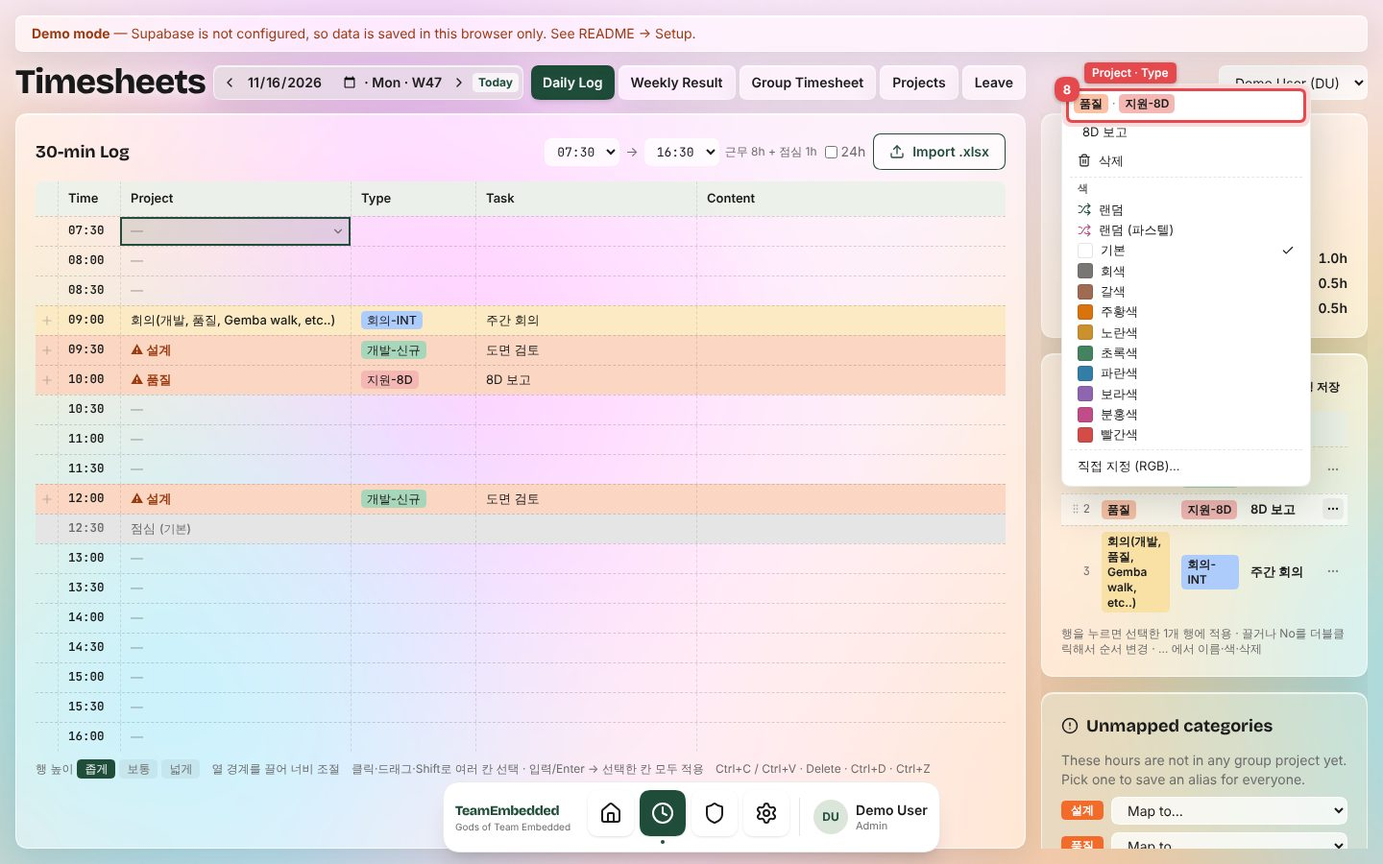
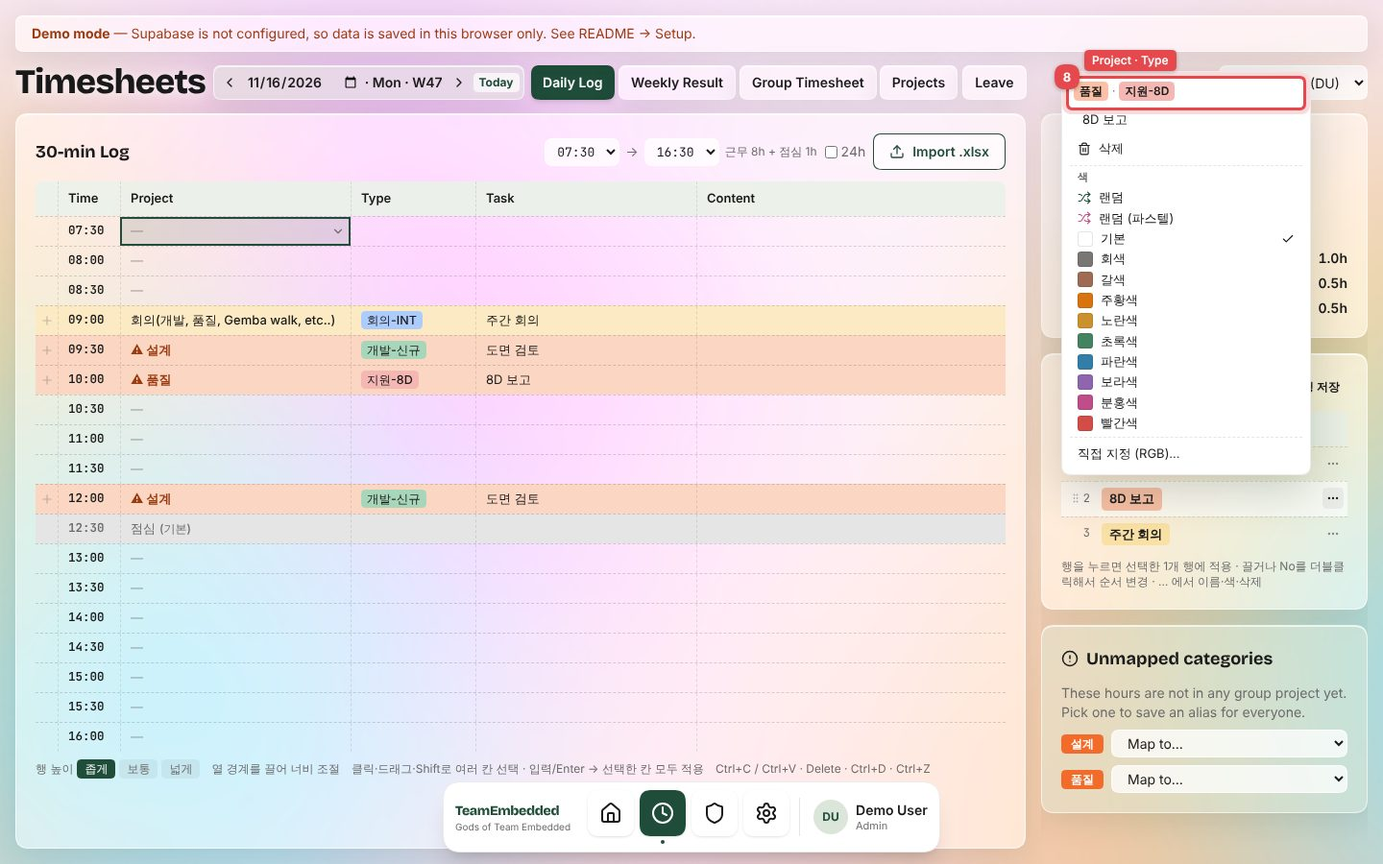
Verification report: repeated-task table with No and Task (commit 38149d5)
Claude-Session: https://claude.ai/code/session_01A1L3RATWraiPWfjj96SejH

diff --git a/docs/test-reports/2026-11-26-templates-table/index.html b/docs/test-reports/2026-11-26-templates-table/index.html
@@ -49,10 +49,10 @@ a { color: var(--accent) } a:focus-visible, summary:focus-visible { outline: 2px
 @media (max-width: 640px) { dl { grid-template-columns: 1fr } h1 { font-size: 1.5rem } }
 </style></head><body><div class="wrap">
 <header class="head"><a href="../index.html" class="eyebrow">← 검증 보고서 목록</a><p class="eyebrow">검증 보고서 · E2E</p><h1>반복 업무 표 · 칸 이름 Project/Type/Task · + 칸 줄</h1>
-<div class="meta"><span>날짜 2026-11-26</span><span>커밋 <code>4b9cac1</code></span><span>스위트 <code>tests/e2e/batchN.e2e.cjs</code></span><span>Chromium 157.0.8103.78 · 1440×900</span><span>데모 모드(가상 데이터)</span></div></header>
+<div class="meta"><span>날짜 2026-11-26</span><span>커밋 <code>38149d5</code></span><span>스위트 <code>tests/e2e/batchN.e2e.cjs</code></span><span>Chromium 157.0.8103.78 · 1440×900</span><span>데모 모드(가상 데이터)</span></div></header>
 <section class="summary" aria-label="결과 요약"><span class="pill pass">PASS</span><strong>13 / 13</strong><span>테스트 케이스 통과 · 증적 화면 7장</span></section>
-<section class="req"><div class="box"><h2>요청</h2><p>칸 이름을 Project / Type / Task로(한국어 프로젝트 / 유형 / 업무). 행 앞 + 옆에 세로 줄. 반복 업무 … 메뉴 맨 위에 Project · Type. 반복 업무를 표로, 오른쪽 도킹 창에, 번호는 1부터, 끌기와 No 더블클릭으로 순서 변경.</p></div><div class="box"><h2>인수 기준</h2><ol><li>표 머리글이 Time · Project · Type · Task · Content(한국어: 시간 · 프로젝트 · 유형 · 업무 · 업무내용).</li><li>+ 칸 오른쪽에 다른 칸 사이와 같은 세로 줄이 머리글부터 모든 행에 있다.</li><li>반복 업무는 No · Project · Type · Task 표로 보이고 No는 1부터.</li><li>행을 누르면 고른 칸에 그 반복 업무가 들어간다.</li><li>행을 끌거나 No를 더블클릭해 번호를 입력하면 그 자리로 옮겨지고, 새로 고쳐도 유지된다.</li><li>… 메뉴 맨 윗줄에 그 반복 업무의 Project · Type이 보인다.</li><li>반복 업무 창은 Today처럼 떼어 낼 수 있고 오른쪽에 다시 붙는다.</li></ol></div></section>
-<section style="display:grid;gap:12px"><h2>테스트 케이스</h2><div class="tablewrap"><table><thead><tr><th>#</th><th>테스트 케이스</th><th>기대 결과</th><th>실제 결과</th><th>판정 근거 (Assertion)</th><th>결과</th><th>증적</th></tr></thead><tbody><tr class=""><td class="n"><a href="#shot-1" title="증적 보기">1</a></td><td>머리글: Project · Type · Task</td><td>Time|Project|Type|Task|Content</td><td>Time|Project|Type|Task|Content</td><td><code>머리글 텍스트 === 'Time|Project|Type|Task|Content'</code></td><td><span class="pill pass">PASS</span></td><td><a href="#shot-1">화면 1</a></td></tr><tr class=""><td class="n"><a href="#shot-1" title="증적 보기">2</a></td><td>+ 칸 오른쪽 세로 줄(머리글과 모든 행)</td><td>19곳 모두 다른 칸 사이 줄과 같음 (1px dashed)</td><td>19곳 모두 '1px dashed'</td><td><code>머리글·각 행의 + 칸 border-right === 다른 칸 border-left</code></td><td><span class="pill pass">PASS</span></td><td><a href="#shot-1">화면 1</a></td></tr><tr class=""><td class="n"><a href="#shot-2" title="증적 보기">3</a></td><td>반복 업무가 No · Project · Type · Task 표로, No는 1부터</td><td>머리글 No|Project|Type|Task, 1번 행 '1 · 회의… · 회의-INT · 주간 회의'(회의는 데모의 회의 프로젝트로 연결), No 1,2,3</td><td>머리글 No|Project|Type|Task, 1번 행 '1 · 회의(개발, 품질, Gemba walk, etc..) · 회의-INT · 주간 회의', No 1,2,3</td><td><code>thead === 'No|Project|Type|Task' &amp;&amp; row1 = ['1','회의…','회의-INT','주간 회의'] &amp;&amp; No === 1,2,3</code></td><td><span class="pill pass">PASS</span></td><td><a href="#shot-2">화면 2</a></td></tr><tr class=""><td class="n"><a href="#shot-3" title="증적 보기">4</a></td><td>행을 누르면 고른 칸에 적용</td><td>12:00 행 '설계 · 개발-신규 · 도면 검토'</td><td>'설계 · 개발-신규 · 도면 검토'</td><td><code>12:00 행 Project·Type·Task === 2번 반복 업무</code></td><td><span class="pill pass">PASS</span></td><td><a href="#shot-3">화면 3</a></td></tr><tr class=""><td class="n"><a href="#shot-4" title="증적 보기">5</a></td><td>행을 끌어 맨 위로</td><td>8D 보고 · 주간 회의 · 도면 검토</td><td>8D 보고 · 주간 회의 · 도면 검토</td><td><code>Task 순서 === ['8D 보고','주간 회의','도면 검토']</code></td><td><span class="pill pass">PASS</span></td><td><a href="#shot-4">화면 4</a></td></tr><tr class=""><td class="n"><a href="#shot-4" title="증적 보기">6</a></td><td>No를 더블클릭해 1을 입력하면 1번으로</td><td>도면 검토 · 8D 보고 · 주간 회의</td><td>도면 검토 · 8D 보고 · 주간 회의</td><td><code>Task 순서 === ['도면 검토','8D 보고','주간 회의']</code></td><td><span class="pill pass">PASS</span></td><td><a href="#shot-4">화면 4</a></td></tr><tr class=""><td class="n">7</td><td>새로 고쳐도 순서 유지</td><td>도면 검토 · 8D 보고 · 주간 회의</td><td>도면 검토 · 8D 보고 · 주간 회의</td><td><code>새로 고친 뒤 Task 순서가 같음</code></td><td><span class="pill pass">PASS</span></td><td>—</td></tr><tr class=""><td class="n"><a href="#shot-5" title="증적 보기">8</a></td><td>… 메뉴 맨 위에 Project · Type</td><td>'품질 · 지원-8D', 그 아래 이름 '8D 보고'</td><td>'품질 · 지원-8D', 이름 '8D 보고'</td><td><code>option-context === '품질 · 지원-8D' &amp;&amp; 이름 칸 === '8D 보고'</code></td><td><span class="pill pass">PASS</span></td><td><a href="#shot-5">화면 5</a></td></tr><tr class=""><td class="n"><a href="#shot-6" title="증적 보기">9</a></td><td>반복 업무 창을 떼어 내면 떠서 표를 보여 줌</td><td>처음 'true' → 'false', 표 3행</td><td>'true' → 'false', 표 3행</td><td><code>docked 'true' → 'false' &amp;&amp; 행 수 === 3</code></td><td><span class="pill pass">PASS</span></td><td><a href="#shot-6">화면 6</a></td></tr><tr class=""><td class="n">10</td><td>오른쪽 끝에 놓으면 다시 붙음</td><td>data-docked = 'true'</td><td>'true'</td><td><code>panel.dataset.docked === 'true'</code></td><td><span class="pill pass">PASS</span></td><td>—</td></tr><tr class=""><td class="n"><a href="#shot-7" title="증적 보기">11</a></td><td>한국어 이름: 프로젝트 · 유형 · 업무</td><td>머리글 시간|프로젝트|유형|업무|업무내용, 반복 업무 No|프로젝트|유형|업무</td><td>머리글 시간|프로젝트|유형|업무|업무내용, 반복 업무 No|프로젝트|유형|업무</td><td><code>두 머리글 텍스트가 기대와 같음</code></td><td><span class="pill pass">PASS</span></td><td><a href="#shot-7">화면 7</a></td></tr><tr class=""><td class="n">12</td><td>휴대폰에는 반복 업무 창 없음(입력 창에서 고름)</td><td>창 안 보임</td><td>안 보임</td><td><code>!templates-panel.isVisible()</code></td><td><span class="pill pass">PASS</span></td><td>—</td></tr><tr class=""><td class="n">13</td><td>페이지 오류 없음</td><td>0건</td><td>0건</td><td><code>pageerror 수 === 0</code></td><td><span class="pill pass">PASS</span></td><td>—</td></tr></tbody></table></div></section>
-<section class="shots"><h2>증적 (주석 스크린샷)</h2><p style="margin:0;color:var(--muted)">빨간 테두리와 번호는 표의 테스트 케이스 번호입니다. 그 요소를 확인해 판정했습니다.</p><figure id="shot-1"><img src="shot-01.jpg" alt="새 칸 이름, + 칸 줄, 반복 업무 표" loading="lazy" width="1440" height="900"><figcaption><strong>화면 1. 새 칸 이름, + 칸 줄, 반복 업무 표</strong><div class="marks"><span><span class="badge">1</span>머리글: Project · Type · Task</span><span><span class="badge">2</span>+ 칸 오른쪽 세로 줄(머리글과 모든 행)</span></div></figcaption></figure><figure id="shot-2"><img src="shot-02.jpg" alt="반복 업무 표(오른쪽 도킹 창)" loading="lazy" width="1440" height="900"><figcaption><strong>화면 2. 반복 업무 표(오른쪽 도킹 창)</strong><div class="marks"><span><span class="badge">3</span>반복 업무가 No · Project · Type · Task 표로, No는 1부터</span></div></figcaption></figure><figure id="shot-3"><img src="shot-03.jpg" alt="2번 반복 업무를 12:00 행에 적용" loading="lazy" width="1440" height="900"><figcaption><strong>화면 3. 2번 반복 업무를 12:00 행에 적용</strong><div class="marks"><span><span class="badge">4</span>행을 누르면 고른 칸에 적용</span><span><span class="badge">4</span>행을 누르면 고른 칸에 적용</span></div></figcaption></figure><figure id="shot-4"><img src="shot-04.jpg" alt="순서를 바꾼 뒤(새로 고침 후)" loading="lazy" width="1440" height="900"><figcaption><strong>화면 4. 순서를 바꾼 뒤(새로 고침 후)</strong><div class="marks"><span><span class="badge">6</span>No를 더블클릭해 1을 입력하면 1번으로</span><span><span class="badge">5</span>행을 끌어 맨 위로</span></div></figcaption></figure><figure id="shot-5"><img src="shot-05.jpg" alt="반복 업무 … 메뉴" loading="lazy" width="1440" height="900"><figcaption><strong>화면 5. 반복 업무 … 메뉴</strong><div class="marks"><span><span class="badge">8</span>… 메뉴 맨 위에 Project · Type</span></div></figcaption></figure><figure id="shot-6"><img src="shot-06.jpg" alt="떼어 낸 반복 업무 창" loading="lazy" width="1440" height="900"><figcaption><strong>화면 6. 떼어 낸 반복 업무 창</strong><div class="marks"><span><span class="badge">9</span>반복 업무 창을 떼어 내면 떠서 표를 보여 줌</span></div></figcaption></figure><figure id="shot-7"><img src="shot-07.jpg" alt="한국어 화면" loading="lazy" width="1440" height="900"><figcaption><strong>화면 7. 한국어 화면</strong><div class="marks"><span><span class="badge">11</span>한국어 이름: 프로젝트 · 유형 · 업무</span><span><span class="badge">11</span>한국어 이름: 프로젝트 · 유형 · 업무</span></div></figcaption></figure></section>
+<section class="req"><div class="box"><h2>요청</h2><p>칸 이름을 Project / Type / Task로(한국어 프로젝트 / 유형 / 업무). 행 앞 + 옆에 세로 줄. 반복 업무 … 메뉴 맨 위에 Project · Type. 반복 업무를 표로, 오른쪽 도킹 창에, 번호는 1부터, 끌기와 No 더블클릭으로 순서 변경. (추가 요청) 표에는 No와 Task만, Project · Type은 … 메뉴에서만.</p></div><div class="box"><h2>인수 기준</h2><ol><li>표 머리글이 Time · Project · Type · Task · Content(한국어: 시간 · 프로젝트 · 유형 · 업무 · 업무내용).</li><li>+ 칸 오른쪽에 다른 칸 사이와 같은 세로 줄이 머리글부터 모든 행에 있다.</li><li>반복 업무는 No · Task 두 칸 표로 간단히 보이고(Project · Type은 … 메뉴에서) No는 1부터.</li><li>행을 누르면 고른 칸에 그 반복 업무가 들어간다.</li><li>행을 끌거나 No를 더블클릭해 번호를 입력하면 그 자리로 옮겨지고, 새로 고쳐도 유지된다.</li><li>… 메뉴 맨 윗줄에 그 반복 업무의 Project · Type이 보인다.</li><li>반복 업무 창은 Today처럼 떼어 낼 수 있고 오른쪽에 다시 붙는다.</li></ol></div></section>
+<section style="display:grid;gap:12px"><h2>테스트 케이스</h2><div class="tablewrap"><table><thead><tr><th>#</th><th>테스트 케이스</th><th>기대 결과</th><th>실제 결과</th><th>판정 근거 (Assertion)</th><th>결과</th><th>증적</th></tr></thead><tbody><tr class=""><td class="n"><a href="#shot-1" title="증적 보기">1</a></td><td>머리글: Project · Type · Task</td><td>Time|Project|Type|Task|Content</td><td>Time|Project|Type|Task|Content</td><td><code>머리글 텍스트 === 'Time|Project|Type|Task|Content'</code></td><td><span class="pill pass">PASS</span></td><td><a href="#shot-1">화면 1</a></td></tr><tr class=""><td class="n"><a href="#shot-1" title="증적 보기">2</a></td><td>+ 칸 오른쪽 세로 줄(머리글과 모든 행)</td><td>19곳 모두 다른 칸 사이 줄과 같음 (1px dashed)</td><td>19곳 모두 '1px dashed'</td><td><code>머리글·각 행의 + 칸 border-right === 다른 칸 border-left</code></td><td><span class="pill pass">PASS</span></td><td><a href="#shot-1">화면 1</a></td></tr><tr class=""><td class="n"><a href="#shot-2" title="증적 보기">3</a></td><td>반복 업무가 No · Task 두 칸 표로, No는 1부터</td><td>머리글 No|Task, 1번 행 '1 · 주간 회의', No 1,2,3</td><td>머리글 No|Task, 1번 행 '1 · 주간 회의', No 1,2,3</td><td><code>thead === 'No|Task' &amp;&amp; row1 = ['1','주간 회의'] &amp;&amp; No === 1,2,3</code></td><td><span class="pill pass">PASS</span></td><td><a href="#shot-2">화면 2</a></td></tr><tr class=""><td class="n"><a href="#shot-3" title="증적 보기">4</a></td><td>행을 누르면 고른 칸에 적용</td><td>12:00 행 '설계 · 개발-신규 · 도면 검토'</td><td>'설계 · 개발-신규 · 도면 검토'</td><td><code>12:00 행 Project·Type·Task === 2번 반복 업무</code></td><td><span class="pill pass">PASS</span></td><td><a href="#shot-3">화면 3</a></td></tr><tr class=""><td class="n"><a href="#shot-4" title="증적 보기">5</a></td><td>행을 끌어 맨 위로</td><td>8D 보고 · 주간 회의 · 도면 검토</td><td>8D 보고 · 주간 회의 · 도면 검토</td><td><code>Task 순서 === ['8D 보고','주간 회의','도면 검토']</code></td><td><span class="pill pass">PASS</span></td><td><a href="#shot-4">화면 4</a></td></tr><tr class=""><td class="n"><a href="#shot-4" title="증적 보기">6</a></td><td>No를 더블클릭해 1을 입력하면 1번으로</td><td>도면 검토 · 8D 보고 · 주간 회의</td><td>도면 검토 · 8D 보고 · 주간 회의</td><td><code>Task 순서 === ['도면 검토','8D 보고','주간 회의']</code></td><td><span class="pill pass">PASS</span></td><td><a href="#shot-4">화면 4</a></td></tr><tr class=""><td class="n">7</td><td>새로 고쳐도 순서 유지</td><td>도면 검토 · 8D 보고 · 주간 회의</td><td>도면 검토 · 8D 보고 · 주간 회의</td><td><code>새로 고친 뒤 Task 순서가 같음</code></td><td><span class="pill pass">PASS</span></td><td>—</td></tr><tr class=""><td class="n"><a href="#shot-5" title="증적 보기">8</a></td><td>… 메뉴 맨 위에 Project · Type</td><td>'품질 · 지원-8D', 그 아래 이름 '8D 보고'</td><td>'품질 · 지원-8D', 이름 '8D 보고'</td><td><code>option-context === '품질 · 지원-8D' &amp;&amp; 이름 칸 === '8D 보고'</code></td><td><span class="pill pass">PASS</span></td><td><a href="#shot-5">화면 5</a></td></tr><tr class=""><td class="n"><a href="#shot-6" title="증적 보기">9</a></td><td>반복 업무 창을 떼어 내면 떠서 표를 보여 줌</td><td>처음 'true' → 'false', 표 3행</td><td>'true' → 'false', 표 3행</td><td><code>docked 'true' → 'false' &amp;&amp; 행 수 === 3</code></td><td><span class="pill pass">PASS</span></td><td><a href="#shot-6">화면 6</a></td></tr><tr class=""><td class="n">10</td><td>오른쪽 끝에 놓으면 다시 붙음</td><td>data-docked = 'true'</td><td>'true'</td><td><code>panel.dataset.docked === 'true'</code></td><td><span class="pill pass">PASS</span></td><td>—</td></tr><tr class=""><td class="n"><a href="#shot-7" title="증적 보기">11</a></td><td>한국어 이름: 프로젝트 · 유형 · 업무</td><td>머리글 시간|프로젝트|유형|업무|업무내용, 반복 업무 No|업무</td><td>머리글 시간|프로젝트|유형|업무|업무내용, 반복 업무 No|업무</td><td><code>두 머리글 텍스트가 기대와 같음</code></td><td><span class="pill pass">PASS</span></td><td><a href="#shot-7">화면 7</a></td></tr><tr class=""><td class="n">12</td><td>휴대폰에는 반복 업무 창 없음(입력 창에서 고름)</td><td>창 안 보임</td><td>안 보임</td><td><code>!templates-panel.isVisible()</code></td><td><span class="pill pass">PASS</span></td><td>—</td></tr><tr class=""><td class="n">13</td><td>페이지 오류 없음</td><td>0건</td><td>0건</td><td><code>pageerror 수 === 0</code></td><td><span class="pill pass">PASS</span></td><td>—</td></tr></tbody></table></div></section>
+<section class="shots"><h2>증적 (주석 스크린샷)</h2><p style="margin:0;color:var(--muted)">빨간 테두리와 번호는 표의 테스트 케이스 번호입니다. 그 요소를 확인해 판정했습니다.</p><figure id="shot-1"><img src="shot-01.jpg" alt="새 칸 이름, + 칸 줄, 반복 업무 표" loading="lazy" width="1440" height="900"><figcaption><strong>화면 1. 새 칸 이름, + 칸 줄, 반복 업무 표</strong><div class="marks"><span><span class="badge">1</span>머리글: Project · Type · Task</span><span><span class="badge">2</span>+ 칸 오른쪽 세로 줄(머리글과 모든 행)</span></div></figcaption></figure><figure id="shot-2"><img src="shot-02.jpg" alt="반복 업무 표(오른쪽 도킹 창)" loading="lazy" width="1440" height="900"><figcaption><strong>화면 2. 반복 업무 표(오른쪽 도킹 창)</strong><div class="marks"><span><span class="badge">3</span>반복 업무가 No · Task 두 칸 표로, No는 1부터</span></div></figcaption></figure><figure id="shot-3"><img src="shot-03.jpg" alt="2번 반복 업무를 12:00 행에 적용" loading="lazy" width="1440" height="900"><figcaption><strong>화면 3. 2번 반복 업무를 12:00 행에 적용</strong><div class="marks"><span><span class="badge">4</span>행을 누르면 고른 칸에 적용</span><span><span class="badge">4</span>행을 누르면 고른 칸에 적용</span></div></figcaption></figure><figure id="shot-4"><img src="shot-04.jpg" alt="순서를 바꾼 뒤(새로 고침 후)" loading="lazy" width="1440" height="900"><figcaption><strong>화면 4. 순서를 바꾼 뒤(새로 고침 후)</strong><div class="marks"><span><span class="badge">6</span>No를 더블클릭해 1을 입력하면 1번으로</span><span><span class="badge">5</span>행을 끌어 맨 위로</span></div></figcaption></figure><figure id="shot-5"><img src="shot-05.jpg" alt="반복 업무 … 메뉴" loading="lazy" width="1440" height="900"><figcaption><strong>화면 5. 반복 업무 … 메뉴</strong><div class="marks"><span><span class="badge">8</span>… 메뉴 맨 위에 Project · Type</span></div></figcaption></figure><figure id="shot-6"><img src="shot-06.jpg" alt="떼어 낸 반복 업무 창" loading="lazy" width="1440" height="900"><figcaption><strong>화면 6. 떼어 낸 반복 업무 창</strong><div class="marks"><span><span class="badge">9</span>반복 업무 창을 떼어 내면 떠서 표를 보여 줌</span></div></figcaption></figure><figure id="shot-7"><img src="shot-07.jpg" alt="한국어 화면" loading="lazy" width="1440" height="900"><figcaption><strong>화면 7. 한국어 화면</strong><div class="marks"><span><span class="badge">11</span>한국어 이름: 프로젝트 · 유형 · 업무</span><span><span class="badge">11</span>한국어 이름: 프로젝트 · 유형 · 업무</span></div></figcaption></figure></section>
 <details><summary>용어</summary><dl><dt>테스트 리포트 (Test Report)</dt><dd>무엇을 어떻게 확인했고 결과가 어땠는지 정리한 검증 보고서. 이 문서.</dd><dt>테스트 케이스 (Test Case)</dt><dd>확인 항목 하나. 표의 한 줄.</dd><dt>인수 기준 (Acceptance Criteria)</dt><dd>요청이 &quot;다 됐다&quot;고 볼 조건. 테스트 케이스는 여기서 나온다.</dd><dt>기대 결과 / 실제 결과 (Expected / Actual)</dt><dd>나와야 하는 것과 실제로 나온 것. 판정 근거의 조건을 만족하면 PASS.</dd><dt>단언 (Assertion)</dt><dd>판정 조건을 코드로 쓴 것. 표의 &quot;판정 근거&quot; 열.</dd><dt>증적 (Test Evidence)</dt><dd>통과를 보여 주는 증거. 여기서는 주석 스크린샷.</dd><dt>주석 스크린샷 (Annotated Screenshot)</dt><dd>확인한 요소에 빨간 테두리와 테스트 케이스 번호를 그린 화면.</dd><dt>E2E 테스트 (End-to-End)</dt><dd>실제 브라우저(Chromium)로 사용자처럼 눌러 보며 확인하는 테스트. 이 보고서의 테스트.</dd><dt>단위 테스트 (Unit Test)</dt><dd>함수 하나를 따로 확인하는 테스트(npm test).</dd><dt>회귀 테스트 (Regression Test)</dt><dd>새 기능 때문에 예전 기능이 깨지지 않았는지 전체를 다시 돌리는 것(npm run test:e2e).</dd><dt>추적성 (Traceability)</dt><dd>요청 ↔ 테스트 ↔ 커밋을 서로 찾아갈 수 있게 연결해 두는 것. 머리말의 커밋·스위트 정보.</dd></dl></details>
 </div></body></html>

diff --git a/docs/test-reports/index.html b/docs/test-reports/index.html
@@ -47,5 +47,5 @@ dl { display: grid; grid-template-columns: max-content 1fr; gap: 6px 18px; margi
 a { color: var(--accent) } a:focus-visible, summary:focus-visible { outline: 2px solid var(--accent); outline-offset: 2px }
 .list { display: grid; gap: 12px } .row { display: flex; flex-wrap: wrap; gap: 8px 16px; align-items: baseline; justify-content: space-between }
 @media (max-width: 640px) { dl { grid-template-columns: 1fr } h1 { font-size: 1.5rem } }
-</style></head><body><div class="wrap"><header class="head"><p class="eyebrow">TeamEmbedded · 검증 기록</p><h1>검증 보고서</h1><p style="margin:0;color:var(--muted);max-width:68ch">기능마다 무엇을 확인했고 어떻게 PASS로 판정했는지, 확인한 화면에 표시해 남긴 기록입니다. 브라우저 테스트(<code>npm run test:e2e</code>)를 <code>REPORT=1</code>로 돌리면 다시 만들어집니다.</p></header><div class="list"><a class="box" href="2026-11-26-dock-today/index.html" style="text-decoration:none;color:inherit"><div class="row"><h2>Dock 메뉴 · Today 도킹 창</h2><span class="pill pass">19 / 19 PASS</span></div><p style="margin:6px 0 0;color:var(--muted)">2026-11-26 · 커밋 <code>4b9cac1</code> · 증적 7장 · <code>tests/e2e/batchM.e2e.cjs</code></p></a><a class="box" href="2026-11-26-mid/index.html" style="text-decoration:none;color:inherit"><div class="row"><h2>Type(유형) 칸 · 행 + 버튼</h2><span class="pill pass">23 / 23 PASS</span></div><p style="margin:6px 0 0;color:var(--muted)">2026-11-26 · 커밋 <code>4b9cac1</code> · 증적 10장 · <code>tests/e2e/batchL.e2e.cjs</code></p></a><a class="box" href="2026-11-26-templates-table/index.html" style="text-decoration:none;color:inherit"><div class="row"><h2>반복 업무 표 · 칸 이름 Project/Type/Task · + 칸 줄</h2><span class="pill pass">13 / 13 PASS</span></div><p style="margin:6px 0 0;color:var(--muted)">2026-11-26 · 커밋 <code>4b9cac1</code> · 증적 7장 · <code>tests/e2e/batchN.e2e.cjs</code></p></a></div>
+</style></head><body><div class="wrap"><header class="head"><p class="eyebrow">TeamEmbedded · 검증 기록</p><h1>검증 보고서</h1><p style="margin:0;color:var(--muted);max-width:68ch">기능마다 무엇을 확인했고 어떻게 PASS로 판정했는지, 확인한 화면에 표시해 남긴 기록입니다. 브라우저 테스트(<code>npm run test:e2e</code>)를 <code>REPORT=1</code>로 돌리면 다시 만들어집니다.</p></header><div class="list"><a class="box" href="2026-11-26-dock-today/index.html" style="text-decoration:none;color:inherit"><div class="row"><h2>Dock 메뉴 · Today 도킹 창</h2><span class="pill pass">19 / 19 PASS</span></div><p style="margin:6px 0 0;color:var(--muted)">2026-11-26 · 커밋 <code>4b9cac1</code> · 증적 7장 · <code>tests/e2e/batchM.e2e.cjs</code></p></a><a class="box" href="2026-11-26-mid/index.html" style="text-decoration:none;color:inherit"><div class="row"><h2>Type(유형) 칸 · 행 + 버튼</h2><span class="pill pass">23 / 23 PASS</span></div><p style="margin:6px 0 0;color:var(--muted)">2026-11-26 · 커밋 <code>4b9cac1</code> · 증적 10장 · <code>tests/e2e/batchL.e2e.cjs</code></p></a><a class="box" href="2026-11-26-templates-table/index.html" style="text-decoration:none;color:inherit"><div class="row"><h2>반복 업무 표 · 칸 이름 Project/Type/Task · + 칸 줄</h2><span class="pill pass">13 / 13 PASS</span></div><p style="margin:6px 0 0;color:var(--muted)">2026-11-26 · 커밋 <code>38149d5</code> · 증적 7장 · <code>tests/e2e/batchN.e2e.cjs</code></p></a></div>
 <details><summary>용어</summary><dl><dt>테스트 리포트 (Test Report)</dt><dd>무엇을 어떻게 확인했고 결과가 어땠는지 정리한 검증 보고서. 이 문서.</dd><dt>테스트 케이스 (Test Case)</dt><dd>확인 항목 하나. 표의 한 줄.</dd><dt>인수 기준 (Acceptance Criteria)</dt><dd>요청이 &quot;다 됐다&quot;고 볼 조건. 테스트 케이스는 여기서 나온다.</dd><dt>기대 결과 / 실제 결과 (Expected / Actual)</dt><dd>나와야 하는 것과 실제로 나온 것. 판정 근거의 조건을 만족하면 PASS.</dd><dt>단언 (Assertion)</dt><dd>판정 조건을 코드로 쓴 것. 표의 &quot;판정 근거&quot; 열.</dd><dt>증적 (Test Evidence)</dt><dd>통과를 보여 주는 증거. 여기서는 주석 스크린샷.</dd><dt>주석 스크린샷 (Annotated Screenshot)</dt><dd>확인한 요소에 빨간 테두리와 테스트 케이스 번호를 그린 화면.</dd><dt>E2E 테스트 (End-to-End)</dt><dd>실제 브라우저(Chromium)로 사용자처럼 눌러 보며 확인하는 테스트. 이 보고서의 테스트.</dd><dt>단위 테스트 (Unit Test)</dt><dd>함수 하나를 따로 확인하는 테스트(npm test).</dd><dt>회귀 테스트 (Regression Test)</dt><dd>새 기능 때문에 예전 기능이 깨지지 않았는지 전체를 다시 돌리는 것(npm run test:e2e).</dd><dt>추적성 (Traceability)</dt><dd>요청 ↔ 테스트 ↔ 커밋을 서로 찾아갈 수 있게 연결해 두는 것. 머리말의 커밋·스위트 정보.</dd></dl></details></div></body></html>
